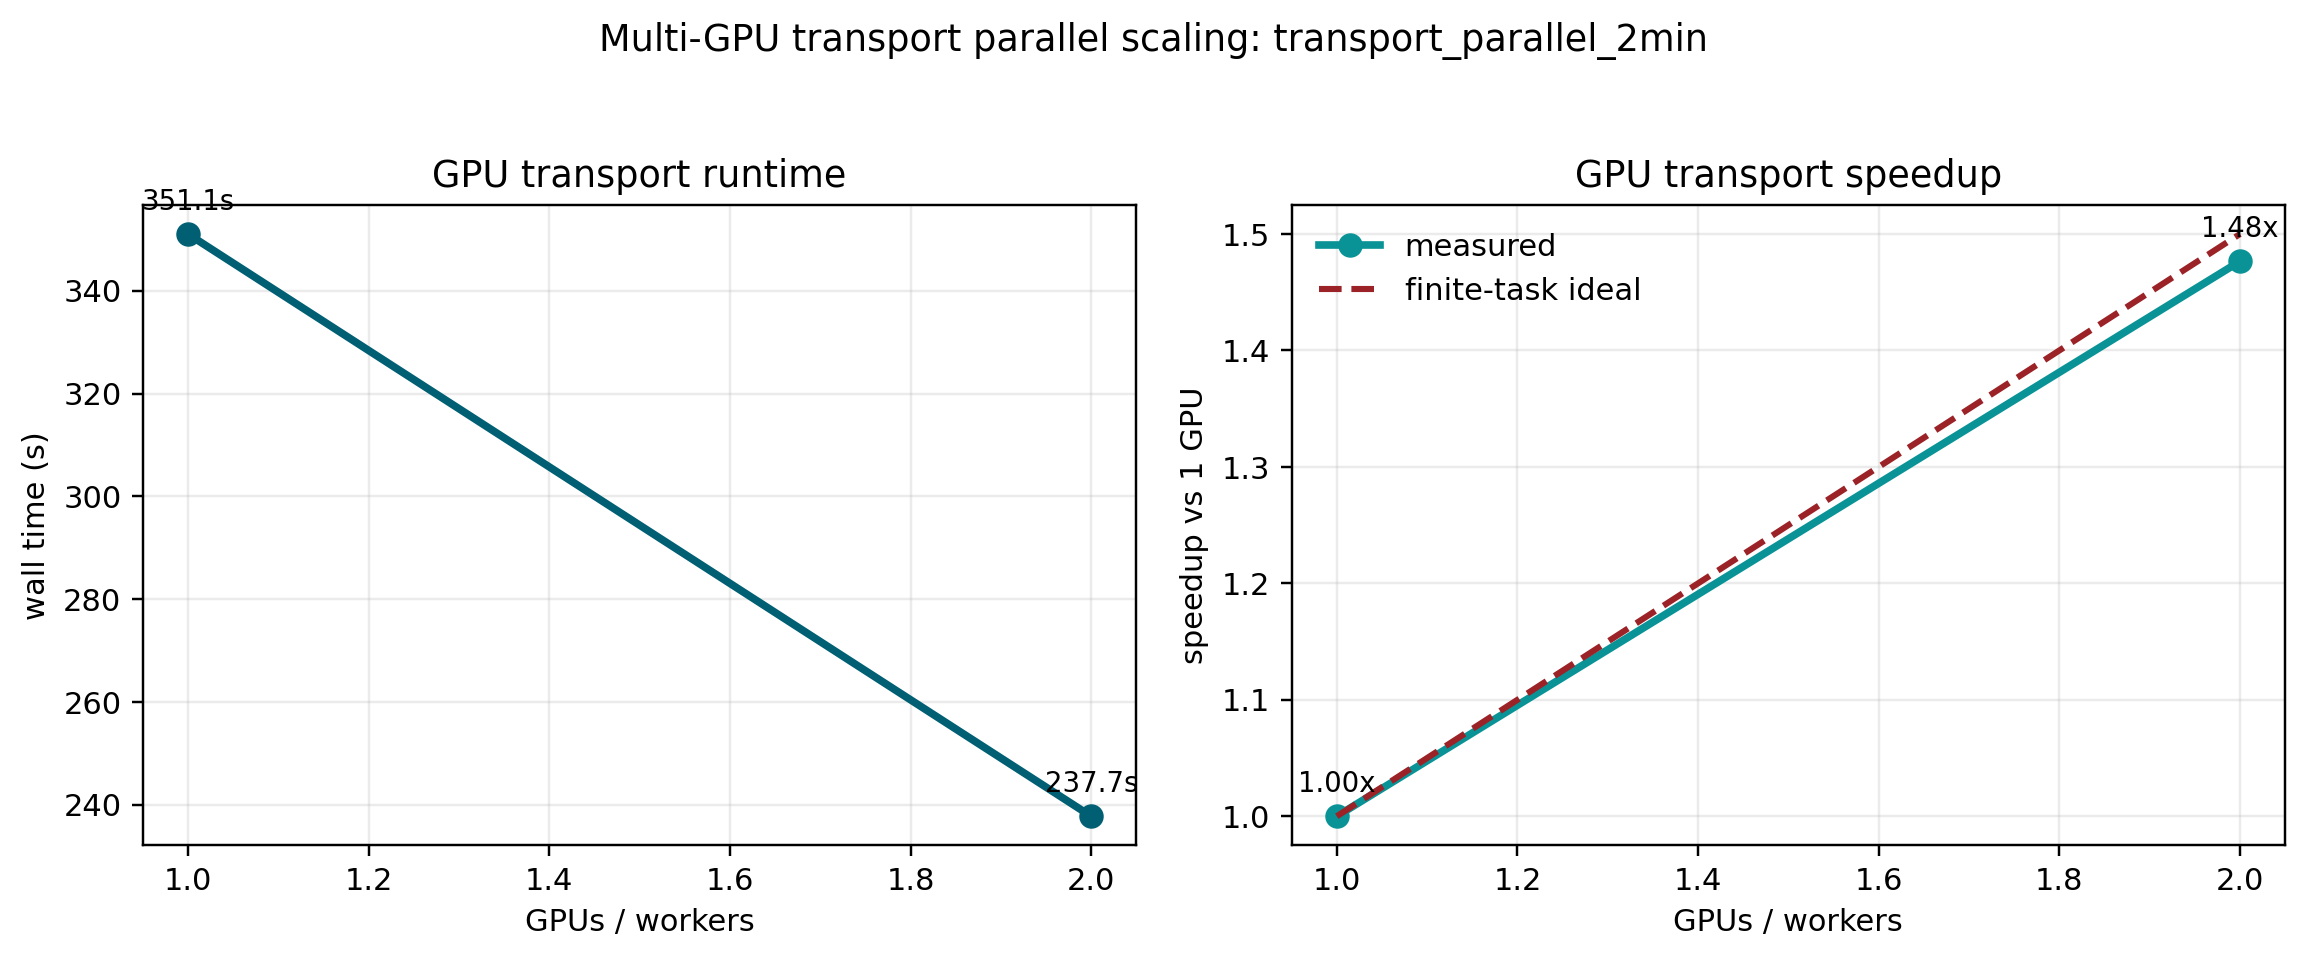
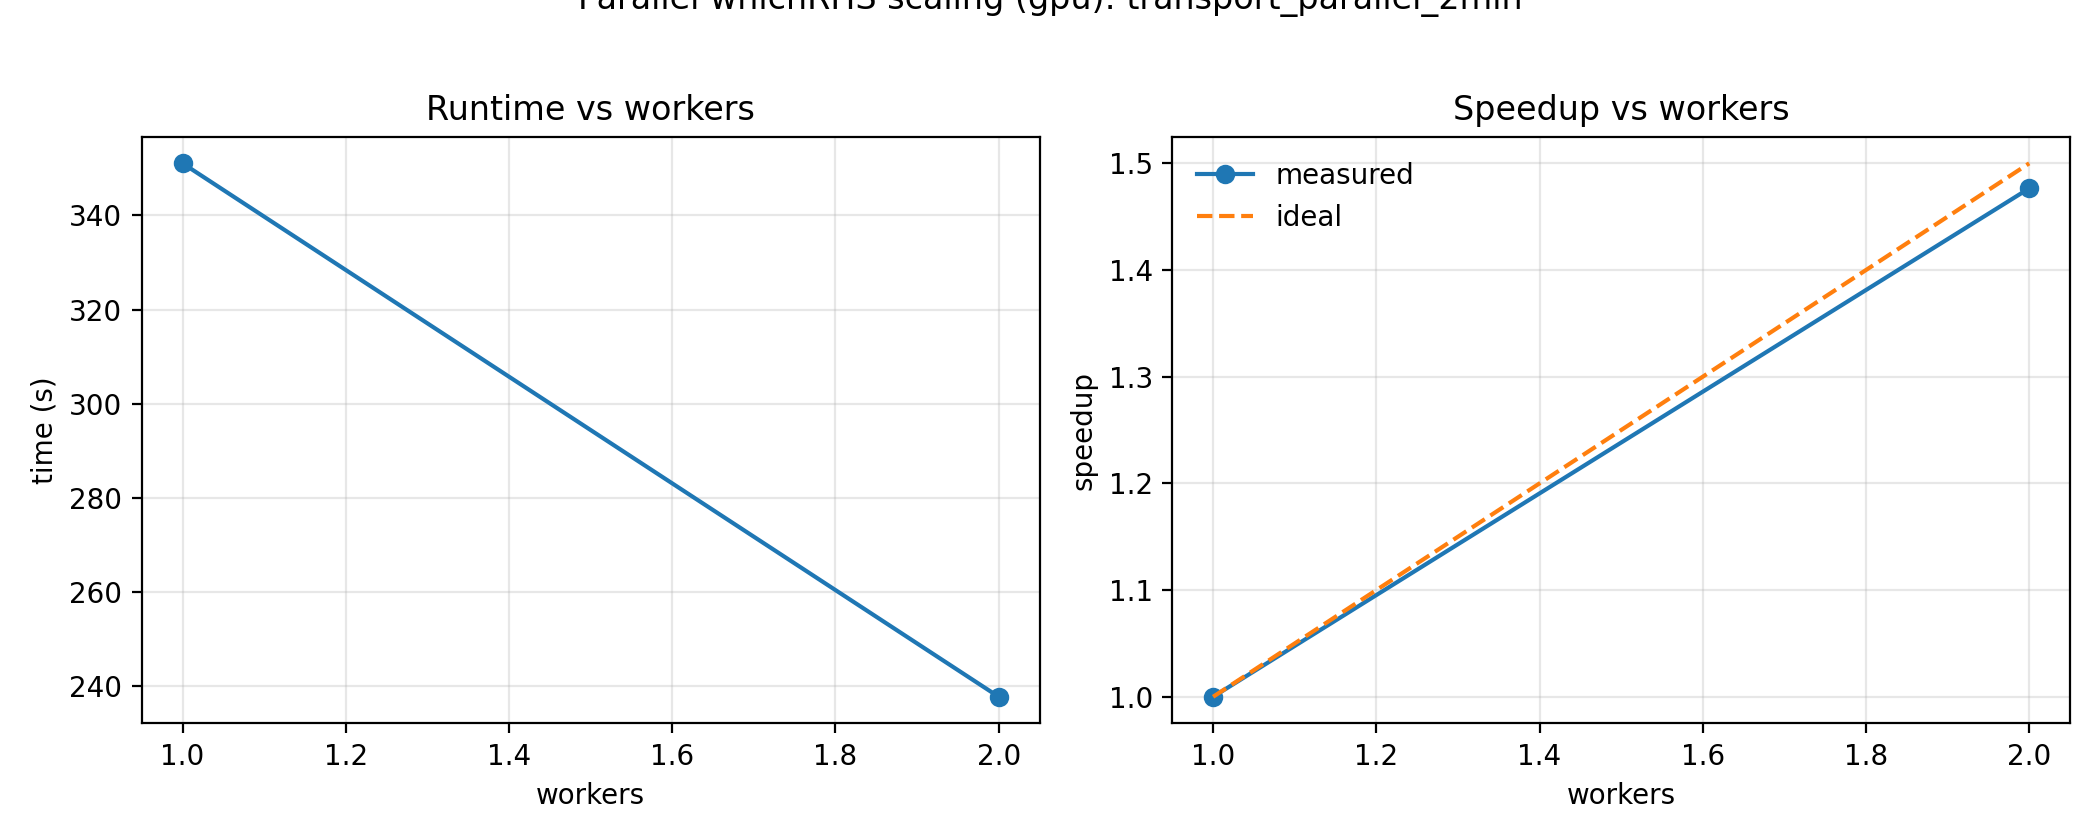
Regenerate GPU scaling figure from artifact

diff --git a/README.md b/README.md
@@ -438,6 +438,16 @@ python examples/performance/benchmark_transport_parallel_scaling.py \
   --workers 1 2
 ```
 
+To regenerate only the checked-in figure from the saved JSON payload without
+rerunning the multi-minute GPU benchmark:
+
+```bash
+python examples/performance/benchmark_transport_parallel_scaling.py \
+  --from-json examples/performance/output/transport_parallel_scaling_gpu.json \
+  --out-dir docs/_static/figures/parallel \
+  --figure-name transport_parallel_scaling_gpu.png
+```
+
 ![GPU transport scaling](docs/_static/figures/parallel/transport_parallel_scaling_gpu.png)
 
 Compare two outputs:

diff --git a/docs/parallelism.rst b/docs/parallelism.rst
@@ -948,6 +948,16 @@ not from single-case sharding. On office we reran:
      --global-warmup 1 \
      --precond xmg
 
+To regenerate the checked-in figure from the saved payload without rerunning the
+multi-minute GPU benchmark:
+
+.. code-block:: bash
+
+   python examples/performance/benchmark_transport_parallel_scaling.py \
+     --from-json examples/performance/output/transport_parallel_scaling_gpu.json \
+     --out-dir docs/_static/figures/parallel \
+     --figure-name transport_parallel_scaling_gpu.png
+
 Measured result on current ``main``:
 
 - `1` GPU worker: ``351.05 s``
